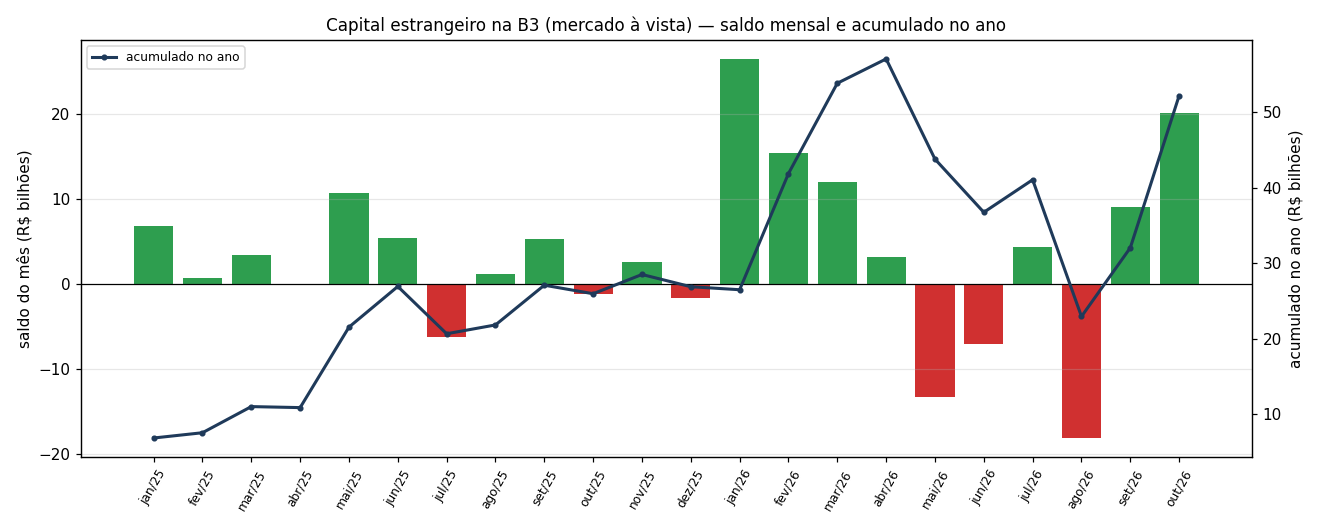
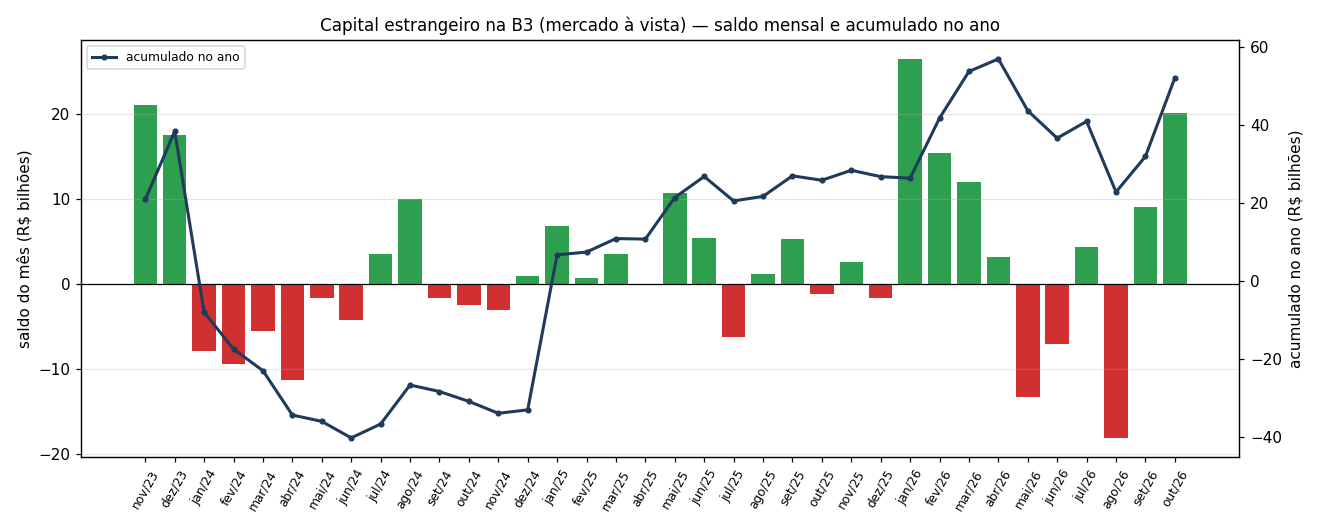
🤖 Auto: Sinal 23/10/2026 18:35

diff --git a/content/estrangeiros/index.md b/content/estrangeiros/index.md
@@ -5,7 +5,7 @@ description: "Compras e vendas dos investidores estrangeiros no mercado à vista
 tags: [estrangeiros]
 ---
 
-*Dados oficiais da B3 até 21/10/2026 · página atualizada 23/10/2026 17:57.*
+*Dados oficiais da B3 até 21/10/2026 · página atualizada 23/10/2026 18:35.*
 
 > [!success] Out/2026 (até dia 21): **+R$ 20,2 bi**
 > No ano de 2026: **+R$ 52,2 bi**
@@ -13,6 +13,35 @@ tags: [estrangeiros]
 Saldo = compras − vendas + IPOs/follow-ons dos investidores estrangeiros no **mercado à vista** da B3 (ações). Positivo = entrou dinheiro de fora; negativo = saiu.
 
 ![Capital estrangeiro na B3](graficos/estrangeiros_20261023.png)
+
+## Dia a dia
+
+> [!success] 21/10/2026: **+R$ 157 mi** · 2 pregão(ões) seguido(s) de entrada
+> Últimos 5 pregões: **+R$ 1,6 bi** · últimos 20: **+R$ 19,6 bi**
+
+![Capital estrangeiro dia a dia](graficos/estrangeirosdia_20261021.png)
+
+| Dia | Saldo do dia | Acumulado do mês |
+|---|---|---|
+| 21/10/2026 | **+R$ 157 mi** | +R$ 20,2 bi |
+| 20/10/2026 | **+R$ 18 mi** | +R$ 20,0 bi |
+| 19/10/2026 | **−R$ 1,0 bi** | +R$ 20,0 bi |
+| 16/10/2026 | **+R$ 2,2 bi** | +R$ 21,0 bi |
+| 15/10/2026 | **+R$ 213 mi** | +R$ 18,7 bi |
+| 14/10/2026 | **+R$ 708 mi** | +R$ 18,5 bi |
+| 13/10/2026 | **+R$ 2,1 bi** | +R$ 17,8 bi |
+| 09/10/2026 | **+R$ 1,0 bi** | +R$ 15,8 bi |
+| 08/10/2026 | **+R$ 1,6 bi** | +R$ 14,7 bi |
+| 07/10/2026 | **−R$ 628 mi** | +R$ 13,1 bi |
+| 06/10/2026 | **+R$ 1,1 bi** | +R$ 13,7 bi |
+| 05/10/2026 | **+R$ 10,1 bi** | +R$ 12,6 bi |
+| 02/10/2026 | **+R$ 2,3 bi** | +R$ 2,6 bi |
+| 01/10/2026 | **+R$ 268 mi** | +R$ 268 mi |
+| 30/09/2026 | **+R$ 322 mi** | +R$ 9,1 bi |
+
+**Posição dos estrangeiros no índice futuro** (última publicada, 01/09/2017): comprada em 3.065 contratos — a B3 mudou a forma de divulgar esse dado e ele deixou de ser publicado.
+
+*Dia a dia: postagens diárias do [Clube do Pai Rico](https://www.clubedopairico.com.br/) com o dado da B3 (4138 pregões desde 05/02/2009).*
 
 ## Mês a mês
 
@@ -40,6 +69,10 @@ Saldo = compras − vendas + IPOs/follow-ons dos investidores estrangeiros no **
 | mar/2025 | R$ 272 bi | R$ 269 bi | R$ 344 mi | **+R$ 3,5 bi** | 🟩🟩 | +R$ 11,0 bi |
 | fev/2025 | R$ 289 bi | R$ 289 bi | — | **+R$ 699 mi** | 🟩 | +R$ 7,5 bi |
 | jan/2025 | R$ 289 bi | R$ 282 bi | — | **+R$ 6,8 bi** | 🟩🟩🟩 | +R$ 6,8 bi |
+| dez/2024 ¹ | — | — | — | **+R$ 879 mi** | 🟩 | −R$ 32,9 bi |
+| nov/2024 ¹ | — | — | — | **−R$ 3,1 bi** | 🟥 | −R$ 33,8 bi |
+
+*¹ mês pelas postagens diárias do Clube do Pai Rico (o arquivo da B3 ainda não cobre).*
 
 ## Por ano
 
@@ -55,6 +88,12 @@ Saldo = compras − vendas + IPOs/follow-ons dos investidores estrangeiros no **
 | 2018 | **−R$ 4,8 bi** |
 | 2017 | **+R$ 39,6 bi** |
 | 2016 | **+R$ 19,5 bi** |
+| 2015 ¹ | **+R$ 16,3 bi** |
+| 2014 ¹ | **+R$ 19,3 bi** |
+| 2013 ¹ | **+R$ 12,0 bi** |
+| 2012 ¹ | **−R$ 4,3 bi** |
+
+*Anos com ¹: soma dos meses pelas postagens diárias do Pai Rico (dado diário da B3, sem IPOs, follow-ons e negócios em bloco — por isso pode diferir um pouco do total oficial).*
 
 ## Participação no volume (compra + venda)
 
